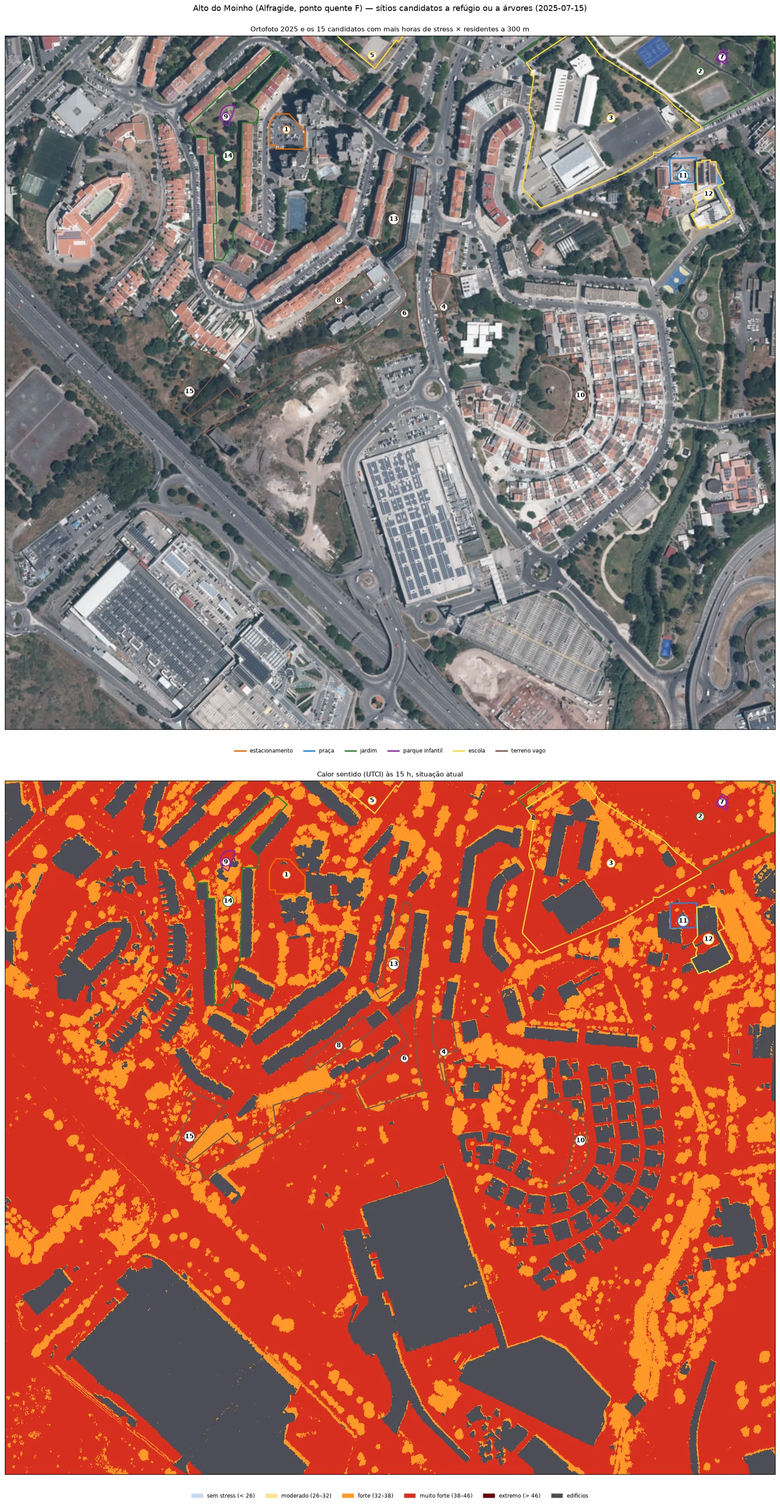
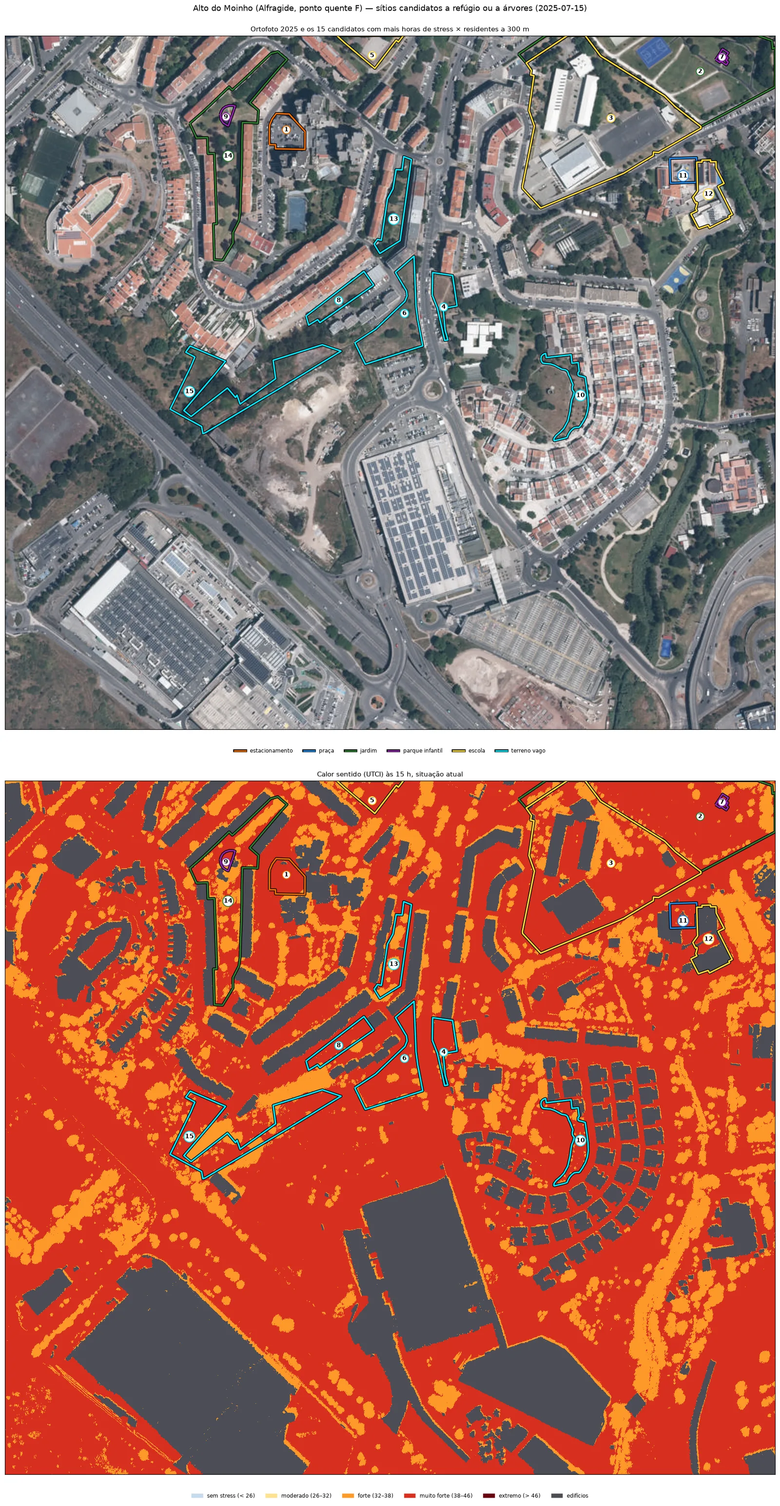
Figuras: Fechar visível em cima à direita e terrenos vagos em ciano
- Figura ampliada: o botão Fechar passa para o canto de cima, claro sobre o fundo escuro
- Sítios candidatos: os terrenos vagos passam de castanho a ciano e todos os contornos
  ganham uma orla escura, para se verem na ortofoto e no mapa do calor sentido

diff --git a/index.html b/index.html
@@ -77,15 +77,21 @@
   dialog.ampliar { position: fixed; inset: 0; width: 100vw; height: 100dvh; max-width: none; max-height: none; margin: 0;
                    padding: 0; border: 0; background: #111; color: #eee; }
   dialog.ampliar::backdrop { background: #111; }
-  .ampliar .vista { position: absolute; inset: 0 0 auto; bottom: 56px; overflow: auto; display: grid; place-items: center; }
-  .ampliar .vista img { display: block; max-width: 100vw; max-height: calc(100dvh - 56px); cursor: zoom-in; background: #fff; }
+  .ampliar .vista { position: absolute; inset: 56px 0 56px; overflow: auto; display: grid; place-items: center; }
+  .ampliar .vista img { display: block; max-width: 100vw; max-height: calc(100dvh - 112px); cursor: zoom-in; background: #fff; }
   .ampliar .vista.inteira { place-items: start; }
   .ampliar .vista.inteira img { max-width: none; max-height: none; cursor: zoom-out; }
   .ampliar .rodape { position: absolute; left: 0; right: 0; bottom: 0; height: 56px; display: flex; align-items: center;
                      gap: 12px; padding: 0 12px; font: 13px/1.3 -apple-system, BlinkMacSystemFont, "Segoe UI", Roboto, sans-serif; }
   .ampliar .rodape span { flex: 1; color: #bbb; overflow: hidden; display: -webkit-box; -webkit-line-clamp: 2; -webkit-box-orient: vertical; }
-  .ampliar button { font: 600 14px -apple-system, BlinkMacSystemFont, "Segoe UI", Roboto, sans-serif; color: #fff;
-                    background: rgb(255 255 255 / .14); border: 0; border-radius: 999px; padding: 10px 16px; cursor: pointer; }
+  /* Fechar no canto de cima, à direita, onde se procura: botão claro sobre o fundo escuro */
+  .ampliar .topo { position: absolute; top: 0; left: 0; right: 0; height: 56px; display: flex; align-items: center;
+                   justify-content: flex-end; padding: 0 12px; }
+  .ampliar .fechar { font: 600 15px -apple-system, BlinkMacSystemFont, "Segoe UI", Roboto, sans-serif; color: #111;
+                     background: #fff; border: 0; border-radius: 999px; padding: 10px 18px; cursor: pointer;
+                     box-shadow: 0 1px 6px rgb(0 0 0 / .5); }
+  .ampliar .fechar:hover { background: #e4e4e4; }
+  .ampliar .fechar:focus-visible { outline: 3px solid #8cb8ff; outline-offset: 3px; }
 
   /* Em resumo */
   .resumo { display: grid; grid-template-columns: repeat(2, minmax(0, 1fr)); gap: 12px; margin: 0 0 28px; }
@@ -737,8 +743,9 @@
 </nav>
 
 <dialog class="ampliar" aria-label="Figura ampliada">
+  <div class="topo"><button type="button" class="fechar">✕ Fechar</button></div>
   <div class="vista"><img alt="" /></div>
-  <div class="rodape"><span></span><button type="button" class="fechar">✕ Fechar</button></div>
+  <div class="rodape"><span></span></div>
 </dialog>
 
 <script>
